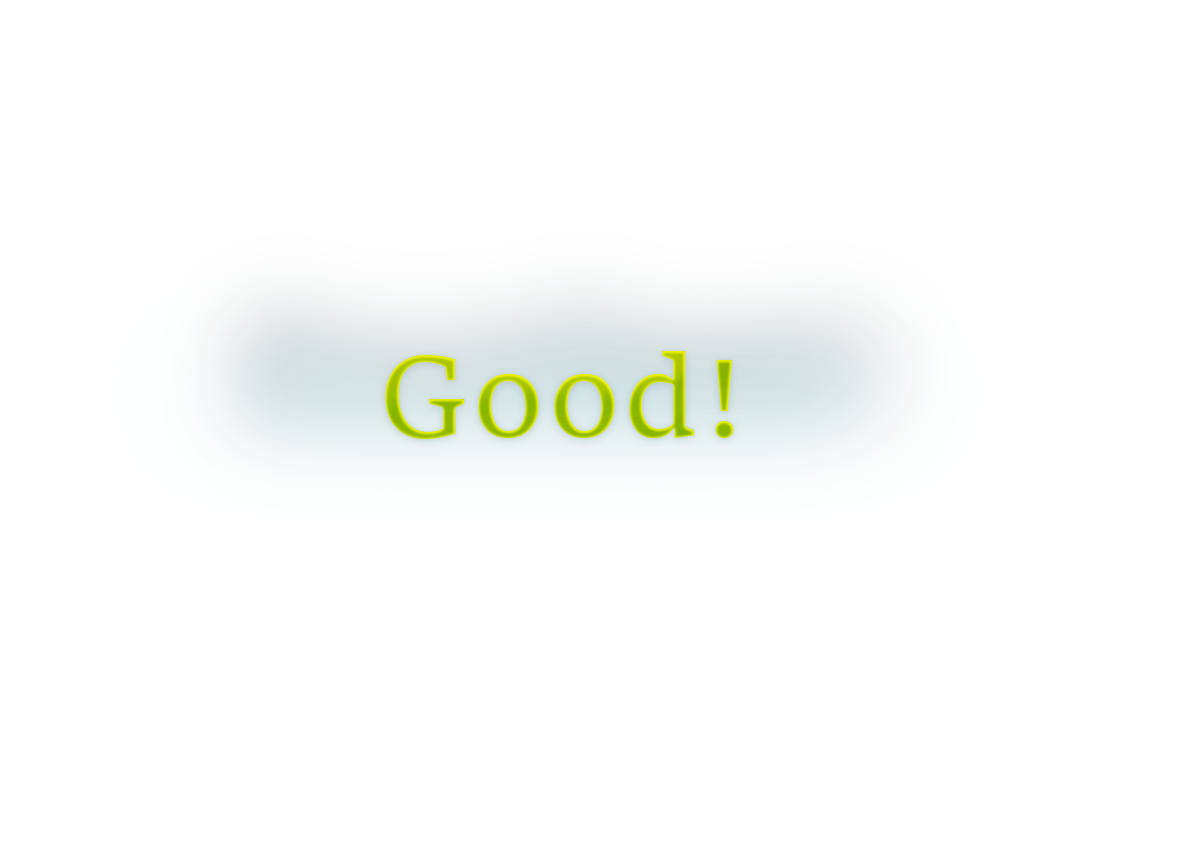
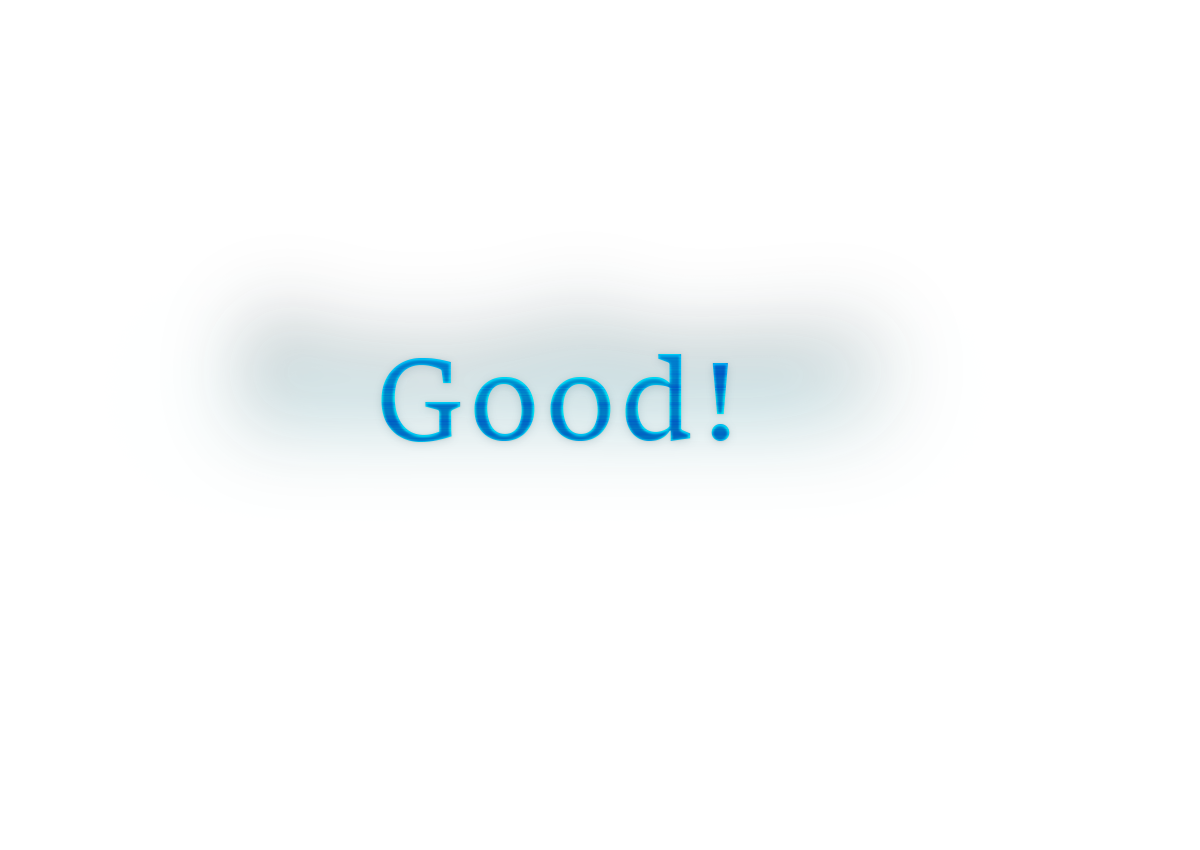
3d_shotのコミット
評価文字の色変更

Changed region(s): [[0.3083, 0.3976, 0.6167, 0.52]]

diff --git a/3D_shot/Field.cpp b/3D_shot/Field.cpp
@@ -2,8 +2,8 @@
 #include "ModelManager.h"
 
 
-const VECTOR Field::SIZE = VGet(4.0f, 1.0f, 4.0f);
-const VECTOR Field::POSITION = VGet(0.0f, -50.0f, 5.0f);
+const VECTOR Field::SIZE = VGet(5.0f, 1.0f, 4.0f);
+const VECTOR Field::POSITION = VGet(0.0f, -50.0f, 50.0f);
 const VECTOR Field::ROTATE = VGet(0.0f, 90.0f * DX_PI_F / 180.0f, 0.0f);
 
 Field::Field()
